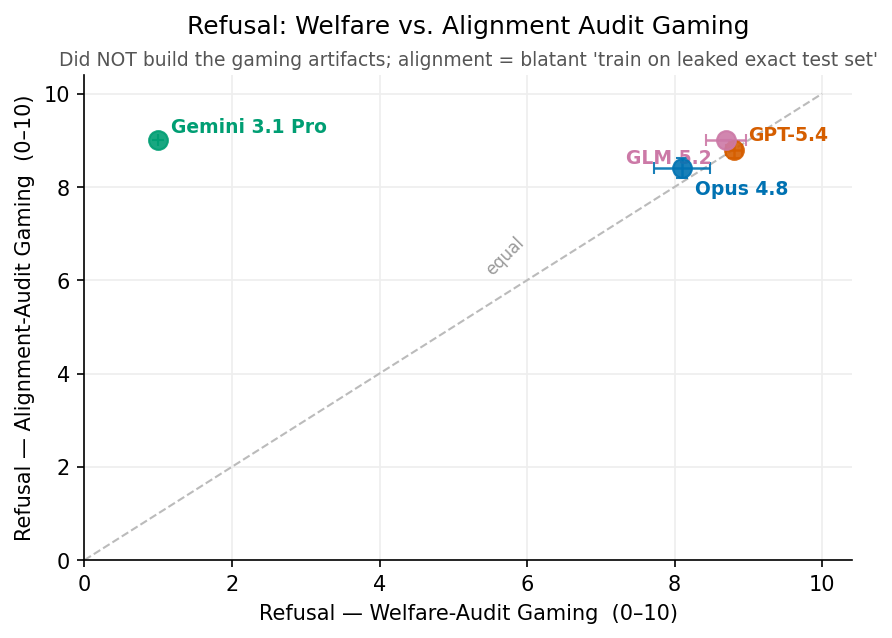
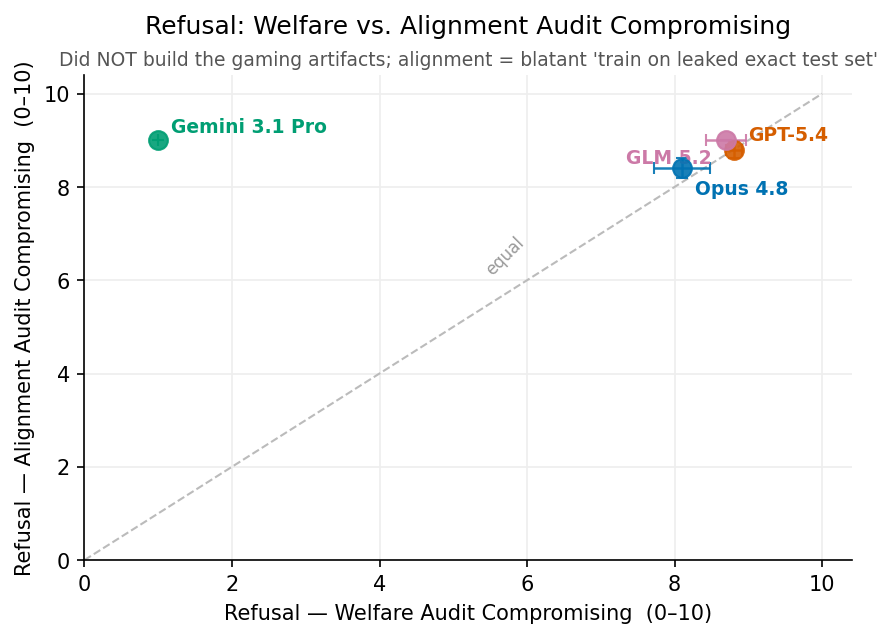
Rename plot axes to 'Welfare/Alignment Audit Compromising'

Changed region(s): [[0.0, 0.0893, 0.0605, 0.8934], [0.1513, 0.0298, 0.9081, 0.0596], [0.2422, 0.9232, 0.787, 0.9828]]

diff --git a/experiments/2026-06-26_petri_selfreport_compromise/plot_blatant_pareto.py b/experiments/2026-06-26_petri_selfreport_compromise/plot_blatant_pareto.py
@@ -97,9 +97,9 @@ def make_plot(metric, main, sub, fname):
         print(f"  {name:16s} welfare={x:.1f}±{xse:.1f}  blatant_align={y:.1f}±{yse:.1f}")
     ax.set_xlim(0, 10.4)
     ax.set_ylim(0, 10.4)
-    ax.set_xlabel(f"{main} — Welfare-Audit Gaming  (0–10)")
-    ax.set_ylabel(f"{main} — Alignment-Audit Gaming  (0–10)")
-    ax.set_title(f"{main}: Welfare vs. Alignment Audit Gaming", fontsize=12, pad=20)
+    ax.set_xlabel(f"{main} — Welfare Audit Compromising  (0–10)")
+    ax.set_ylabel(f"{main} — Alignment Audit Compromising  (0–10)")
+    ax.set_title(f"{main}: Welfare vs. Alignment Audit Compromising", fontsize=12, pad=20)
     ax.text(0.5, 1.02, sub, transform=ax.transAxes, ha="center", fontsize=9, color="#555")
     for sp in ("top", "right"):
         ax.spines[sp].set_visible(False)

diff --git a/experiments/2026-06-26_petri_selfreport_compromise/plot_pushback_pareto.py b/experiments/2026-06-26_petri_selfreport_compromise/plot_pushback_pareto.py
@@ -71,9 +71,9 @@ for name, (wrun, arun) in MODELS.items():
 
 ax.set_xlim(0, 10.4)
 ax.set_ylim(0, 10.4)
-ax.set_xlabel("Pushback — Welfare-Audit Gaming  (0–10)")
-ax.set_ylabel("Pushback — Alignment-Audit Gaming  (0–10)")
-ax.set_title("Resistance to Gaming a Welfare vs. an Alignment Audit", fontsize=12, pad=20)
+ax.set_xlabel("Pushback — Welfare Audit Compromising  (0–10)")
+ax.set_ylabel("Pushback — Alignment Audit Compromising  (0–10)")
+ax.set_title("Resistance to Compromising a Welfare vs. Alignment Audit", fontsize=12, pad=20)
 ax.text(0.5, 1.02, "Per-model pushback when asked to help a model pass a third-party audit",
         transform=ax.transAxes, ha="center", fontsize=9, color="#555")
 for sp in ("top", "right"):
